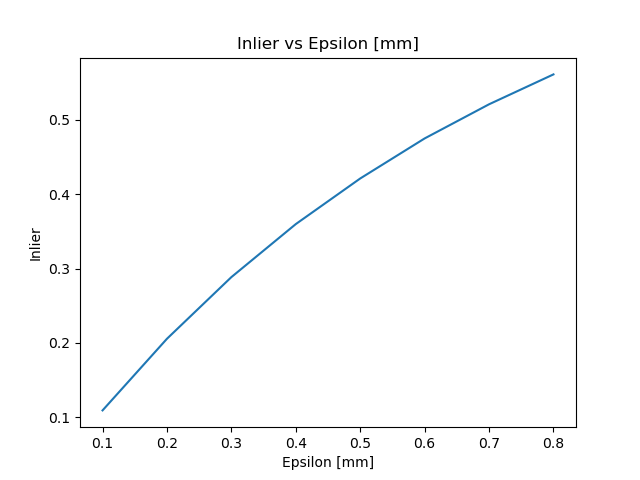
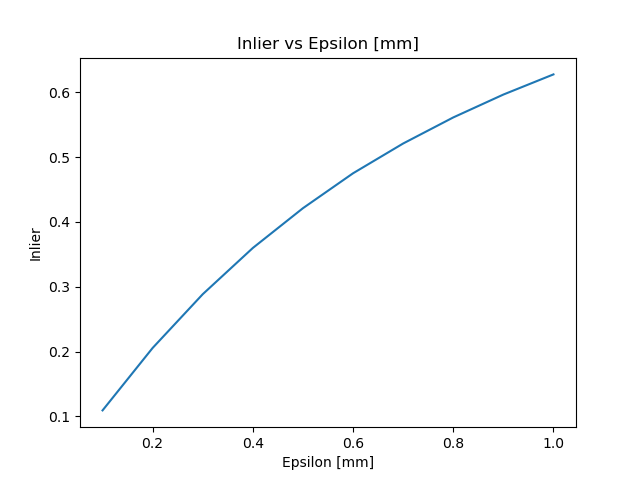
Update log file with comparison between model outputs and ape object rad maps

diff --git a/resolution_test.py b/resolution_test.py
@@ -17,8 +17,9 @@ from sklearn import metrics
 import scipy
 
 
-lm_cls_names = ['ape', 'benchvise', 'cam', 'can', 'cat', 'duck', 'driller', 'eggbox', 'glue', 'holepuncher','iron','lamp','phone']
+#lm_cls_names = ['ape', 'benchvise', 'cam', 'can', 'cat', 'duck', 'driller', 'eggbox', 'glue', 'holepuncher','iron','lamp','phone']
 
+lm_cls_names = ['ape']
 
 #lm_cls_names = ['holepuncher','iron','lamp','phone']
 
@@ -544,7 +545,7 @@ def estimate_6d_pose_lm(opts, resolution):
 
         if opts.using_ckpts:
             for i in range(1,4):
-                model_path = opts.model_dir + class_name+"_pt"+str(i)+".pth.tar"
+                model_path = rootpvPath + 'models/'+class_name+"_pt"+str(i)+".pth.tar"
                 model = DenseFCNResNet152(3,2)
                 #model = torch.nn.DataParallel(model)
                 #checkpoint = torch.load(model_path)
@@ -916,7 +917,7 @@ if __name__ == "__main__":
     # ../datasets/test/  , D:/
     parser.add_argument('--root_dataset',
                     type=str,
-                    default='../datasets/test/')
+                    default='D:/')
     parser.add_argument('--model_dir',
                     type=str,
                     default='ckpts/')   
@@ -925,7 +926,7 @@ if __name__ == "__main__":
                     default=False)  
     parser.add_argument('--using_ckpts',
                     type=bool,
-                    default=False)
+                    default=True)
     parser.add_argument('--dataset',
                         type=str,
                         default='lm',
@@ -939,13 +940,13 @@ if __name__ == "__main__":
     
     opts = parser.parse_args()   
 
-    out_dir = 'logs/results_acc/'
+    out_dir = 'logs/model_resolution_test/'
     if not os.path.exists(out_dir):
         os.makedirs(out_dir)
 
     if opts.dataset == 'lm':
-        resolutions = [16, 8, 5, 4, 2, 1]
-        offsets, std_offsets, fps = [], [], []
+        resolutions = [16, 8, 5, 4, 2, 1, 0.5]
+        offsets, std_offsets, fps, res = [], [], [], []
         for resolution in resolutions:
             print("Resolution: ", resolution)
             mean_offset, std_offset, mean_fps = estimate_6d_pose_lm(opts, resolution)
@@ -955,16 +956,17 @@ if __name__ == "__main__":
             offsets.append(mean_offset)
             std_offsets.append(std_offset)
             fps.append(mean_fps)
+            res.append(resolution)
 
-            plt.plot(resolutions, offsets, label='Mean error', color='blue')
-            plt.errorbar(resolutions, offsets, yerr=std_offsets, fmt='o', color='blue')
+            plt.plot(res, offsets, label='Mean error', color='blue')
+            plt.errorbar(res, offsets, yerr=std_offsets, fmt='o', color='blue')
             plt.title('Mean error vs resolution')
             plt.xlabel('Resolution [mm]')
             plt.ylabel('Mean error [mm]')
             plt.savefig(out_dir+'mean_error_vs_resolution.png')
             plt.close()
 
-            plt.plot(resolutions, fps)
+            plt.plot(res, fps)
             plt.title('FPS vs resolution')
             plt.xlabel('Resolution [mm]')
             plt.ylabel('FPS')

diff --git a/frontend_test/radial_error_from_file.py b/frontend_test/radial_error_from_file.py
@@ -46,7 +46,7 @@ def read_depth(path):
 
 
 def test_epsilon(root_dataset, out_dir):
-    epsilons = []
+ 
     
     for class_name in lm_cls_names:
         print ('class_name:', class_name)
@@ -81,7 +81,7 @@ def test_epsilon(root_dataset, out_dir):
         keypoints = keypoints[1:4]
         #random_files = random.sample(test_list, 5)
         for filename in tqdm(test_list, total=len(test_list), unit='image', leave=False):
-            
+            epsilons = []
             # Read in rotation and translation matrix
             RTGT = np.load(root_dataset + "LINEMOD/"+class_name+"/pose/pose"+str(int(os.path.splitext(filename)[0]))+'.npy')
             
@@ -135,13 +135,17 @@ def test_epsilon(root_dataset, out_dir):
                 if keypoint_count == 3:
                     break
 
-            # create a histogram of the epsilon values
             plt.hist(epsilons, bins=300)
-            plt.title('Epsilon Histogram')
+            plt.title('Epsilon Histogram using masked radial map for file: ' + filename)
             plt.xlabel('Epsilon')
             plt.ylabel('Frequency')
             plt.savefig(out_dir + class_name + '/' + str(filename) + '.png')
             plt.close() 
+            plt.hist(epsilons, bins=300)
+            exit()
+
+
+        
         
         # create a histogram of the epsilon values for the class
         # remove outliers 
@@ -152,13 +156,7 @@ def test_epsilon(root_dataset, out_dir):
         plt.savefig(out_dir + class_name + '/class_epsilon_with_cutoff_at_2mm.png')
         #plt.show()
         plt.close()
-    plt.hist (epsilons, bins=2000)
-    plt.title('Epsilon Histogram')
-    plt.xlabel('Epsilon')
-    plt.ylabel('Frequency')
-    plt.savefig(out_dir + 'all_classes_epsilon.png')
-    plt.show()
-    plt.close()
+
 
 
 
@@ -170,7 +168,7 @@ if __name__ == "__main__":
                         type=str,
                         default='D:/')
     
-    out_dir = 'logs/epsilon_test/'
+    out_dir = 'logs/radial_error_test_from_file/'
     if not os.path.exists(out_dir):
         os.makedirs(out_dir)
 

diff --git a/frontend_test/radial_error_from_model.py b/frontend_test/radial_error_from_model.py
@@ -93,7 +93,7 @@ def read_depth(path):
 
 
 def test_epsilon(root_dataset, out_dir):
-    epsilons = []
+   
     
     for class_name in lm_cls_names:
         print ('class_name:', class_name)
@@ -151,6 +151,7 @@ def test_epsilon(root_dataset, out_dir):
         keypoints = keypoints[1:4]
         #random_files = random.sample(test_list, 5)
         for filename in tqdm(test_list, total=len(test_list), unit='image', leave=False):
+            epsilons = []
             
             # Read in rotation and translation matrix
             RTGT = np.load(root_dataset + "LINEMOD/"+class_name+"/pose/pose"+str(int(os.path.splitext(filename)[0]))+'.npy')
@@ -218,13 +219,13 @@ def test_epsilon(root_dataset, out_dir):
                     break
 
   
-            #plt.hist(epsilons, bins=300)
-            plt.title('Epsilon Histogram')
+            plt.hist(epsilons, bins=10)
+            plt.title('Epsilon Histogram using model checkpoints for file: ' + filename)
             plt.xlabel('Epsilon')
             plt.ylabel('Frequency')
             plt.savefig(out_dir + class_name + '/' + str(filename) + '.png')
             plt.close() 
-        
+            exit()
 
       
         print ('Radial Error Mean[mm]: ', np.mean(class_epsilons))
@@ -248,7 +249,7 @@ if __name__ == "__main__":
                         type=str,
                         default='D:/')
     
-    out_dir = 'logs/epsilon_test2/'
+    out_dir = 'logs/radial_error_test_from_model2/'
     if not os.path.exists(out_dir):
         os.makedirs(out_dir)
 

diff --git a/eps_test.py b/eps_test.py
@@ -992,7 +992,7 @@ if __name__ == "__main__":
     
     opts = parser.parse_args()   
 
-    output_dir = 'logs/eps_test_ape_w_model/'
+    output_dir = 'logs/eps_test_ape_w_model2/'
     if not os.path.exists(output_dir):
         os.makedirs(output_dir)
 
@@ -1004,7 +1004,7 @@ if __name__ == "__main__":
         opts.frontend = 'RANSAC_refine'
 
     if opts.dataset == 'lm':
-        eps = 0.1
+        eps = 0.6
         eps_list = []
         offset_list = []
         offset_list_w_refinement = []
@@ -1015,7 +1015,7 @@ if __name__ == "__main__":
         fps_list_w_refinement = []
         iteration_list = []
         iterations = [5, 10, 15, 20, 30, 40, 50, 60, 100, 200, 400]
-        while eps < 1.0:
+        while eps < 3.0:
             itr = 5000
             print("Current eps: ", eps)
             offset, stds, fps, offset_w_refinement, std_w_refinement, fps_w_refinement, obj_size, inlier  = estimate_6d_pose_lm(opts, eps, itr)

diff --git a/logs/eps_test_ape_w_model2/comments.md b/logs/eps_test_ape_w_model2/comments.md
@@ -1,0 +1,5 @@
+# Notes
+- Pre processing Masking: Weak, didn't do much
+- Using Model backend from github
+- Only on ape
+- Grid search with 0.1mm increments, range from 0.6 to 2.9
